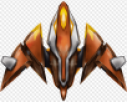
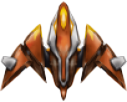
Added sprites and movement is fixed, sprites are upside down,

diff --git a/TestGame/TestGame/src/GameApp.cpp b/TestGame/TestGame/src/GameApp.cpp
@@ -1,12 +1,33 @@
 #include "..\include\GameApp.h"
 
-GameApp::GameApp(): mSpaceship("assets/starship.png",5), mSpaceshipAction(Action::Forward)
+GameApp::GameApp(): mSpaceship("assets/starship.png",10), 
+					mEndNotice("assets/game_over.png"),
+					mBackground("assets/space.png"),
+					mSpaceshipAction(Action::Forward),
+					mFrameNumber(0),
+					mGameEnd(false)
 {
 
 }
 
 void GameApp::OnUpdate()
 {
+	Hunter::Renderer::Draw(mBackground, 0, 0, mBackground.GetWidth(),mBackground.GetHeight());
+	
+	if (mGameEnd)
+	{
+		Hunter::Renderer::Draw(mEndNotice, 250, 350, mEndNotice.GetWidth(), mEndNotice.GetHeight());
+		return;
+	}
+
+	if (mFrameNumber % 15 == 0)
+	{
+		std::string planetType{ "assets/planet" + std::to_string((rand() % 5 + 1)) + ".png" };
+		mPlanets.emplace_back(planetType, 10);
+		mPlanets.back().SetYCoord(GameApp::GetWindowHeight());
+		mPlanets.back().SetXCoord(rand()%(GameApp::GetWindowWidth()-mPlanets.back().GetWidth()));
+	}
+
 	if (mSpaceshipAction == Action::LeftMove)
 	{
 		if (mSpaceship.GetXCoord() >= mSpaceship.Speed())
@@ -23,7 +44,28 @@ void GameApp::OnUpdate()
 			mSpaceship.SetXCoord(GameApp::GetWindowWidth() - mSpaceship.GetWidth());
 	}
 
+	while(!mPlanets.empty() && mPlanets.front().GetYCoord() <= -mPlanets.front().GetHeight()) 
+	{
+		mPlanets.pop_front();
+	}
+
+	for (auto& planet : mPlanets)
+	{
+		planet.UpdateYcoord(-planet.Speed());
+		if (planet.OverlapsWith(mSpaceship))
+		{
+			mGameEnd = true;
+		}
+	}
+
+	for (const auto& planet : mPlanets)
+	{
+		planet.Draw();
+	}
+
 	mSpaceship.Draw();
+
+	mFrameNumber++;
 }
 
 void GameApp::OnKeyPressed(Hunter::KeyPressedEvent& event)

diff --git a/TestGame/TestGame/include/GameApp.h b/TestGame/TestGame/include/GameApp.h
@@ -15,6 +15,8 @@ public:
 private:
 	Unit mSpaceship;
 	std::deque<Unit> mPlanets;
+	Hunter::Sprite mEndNotice;
+	Hunter::Sprite mBackground;
 
 	enum class Action
 	{
@@ -22,4 +24,8 @@ private:
 		RightMove,
 		Forward,	
 	} mSpaceshipAction;
+
+
+	bool mGameEnd;
+	long long mFrameNumber;
 };

diff --git a/TestGame/TestGame/include/Unit.h b/TestGame/TestGame/include/Unit.h
@@ -19,6 +19,11 @@ public:
 	void Draw() const;
 	bool OverlapsWith(const Unit& other) const;
 
+	Unit(const Unit&) = delete;
+	Unit(const Unit&&) = delete;
+	Unit& operator=(const Unit&) = delete;
+	Unit& operator=( Unit&&) = delete;
+
 private:
 	Hunter::Sprite mImage;
 	

diff --git a/TestGame/Hunter/include/HunterApp.h b/TestGame/Hunter/include/HunterApp.h
@@ -28,7 +28,7 @@ namespace Hunter
 		Hunter::Window* appWindow{ nullptr };
 
 		std::chrono::steady_clock::time_point mNextFrameTime;
-		std::chrono::milliseconds mFrameDuration{ 16 };
+		std::chrono::milliseconds mFrameDuration{ 30 };
 	};
 }
 

diff --git a/TestGame/Hunter/src/OpenGL/OpenGLImplementation.cpp b/TestGame/Hunter/src/OpenGL/OpenGLImplementation.cpp
@@ -57,6 +57,9 @@ namespace Hunter
 
 		glDrawArrays(GL_TRIANGLE_STRIP, 0, 4);
 
+		glDeleteTextures(1, &picture);
+		glDeleteBuffers(1, &VBO);
+		glDeleteVertexArrays(1, &VAO);
 	}
 
 	void OpenGLImplementation::ClearFrame()
